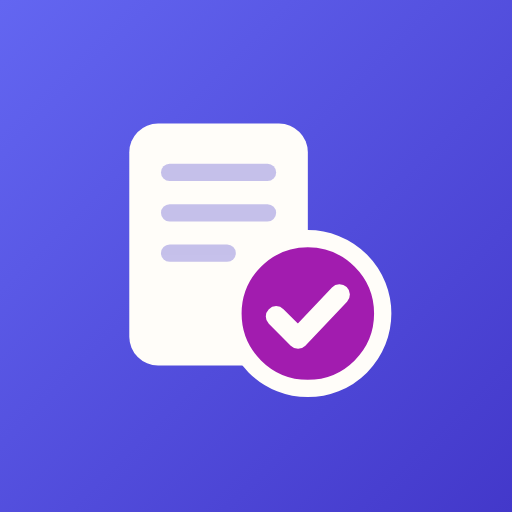
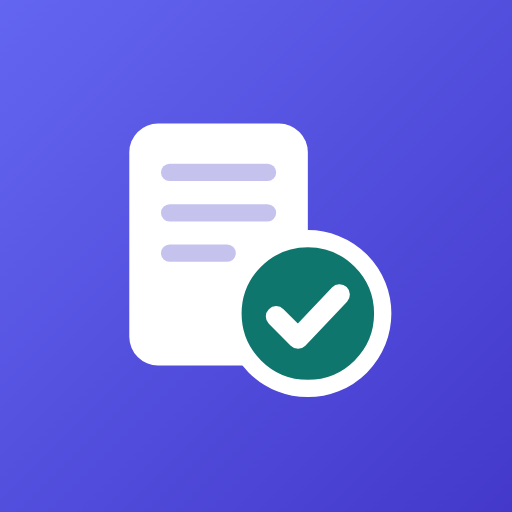
Put the indigo on cool neutrals instead of a warm cream base (#42)
* Opt the viewport into safe-area insets (viewport-fit=cover)

* Keep body content clear of the landscape notch

* Give the tab bar a floor above the home indicator

* Reserve room for the taller tab bar in the layout

* Give the exam toolbar a floor above the home indicator

* Add a regression test for the iOS safe-area insets

* Point the theme-color metas at the cool canvas

* Move the tokens to cool neutrals with a teal second voice

* Re-render the logo, icons and social card in the new palette

* Recolour the maskable icon and social card sources

* Expect the new canvas colours in the theme-color test

* Rename the second-voice contrast case to teal

* Update the design-system rule's token table

* Record the cool-neutral direction in MASTER.md

* Use the new ink in the quality-gates diagram

Changed region(s): [[0.4688, 0.4688, 0.75, 0.75]]

diff --git a/src/styles/index.css b/src/styles/index.css
@@ -8,30 +8,30 @@
 
 @custom-variant dark (&:is(.dark *));
 
-/* "Warm & friendly, grown-up" — design-system/pruefungstrainer-deutsch/MASTER.md. Every pair
+/* "Friendly, grown-up": indigo on cool neutrals — design-system/pruefungstrainer-deutsch/MASTER.md. Every pair
    below was measured; e2e/contrast.spec.js re-measures them in a real browser. */
 :root {
   --radius: 1rem;
 
-  --background: #fbf7f1; /* warm cream */
-  --foreground: #2b2420; /* brown-black ink, 14.3:1 */
-  --card: #fffdf9;
-  --card-foreground: #2b2420;
-  --popover: #fffdf9;
-  --popover-foreground: #2b2420;
+  --background: #f6f7fb; /* cool off-white */
+  --foreground: #1c2033; /* slate-navy ink, 15.1:1 */
+  --card: #ffffff;
+  --card-foreground: #1c2033;
+  --popover: #ffffff;
+  --popover-foreground: #1c2033;
 
   /* Indigo. White on it measures 7.9:1; as text on the canvas 7.4:1. Lightening it
      re-breaks the default button, the most-used control in the app. */
   --primary: #4338ca;
   --primary-foreground: #ffffff;
-  --secondary: #f3ece3;
-  --secondary-foreground: #2b2420;
-  --muted: #f3ece3;
-  --muted-foreground: #6b5e55; /* 5.9:1 on the canvas */
-  --accent: #e9e8fb; /* soft indigo tint: hover, active nav */
+  --secondary: #eceef5;
+  --secondary-foreground: #1c2033;
+  --muted: #eceef5;
+  --muted-foreground: #555d73; /* 6.1:1 on the canvas */
+  --accent: #e8e9fb; /* soft indigo tint: hover, active nav */
   --accent-foreground: #3730a3; /* 8.2:1 on the accent */
-  /* Magenta second voice: charts and secondary emphasis, never status. */
-  --brand-2: #a21caf;
+  /* Teal second voice: charts and secondary emphasis, never status. White on it 5.5:1. */
+  --brand-2: #0f766e;
 
   /* A tint and a solid fill of one colour need opposite inks, so each domain colour carries
      both. `--*-foreground` / `--*-on-fill` sit on the solid fill; `--*-on-tint` and the
@@ -40,8 +40,8 @@
   --destructive-foreground: #ffffff; /* 5.5:1 on the fill */
   --destructive-on-tint: #a62e25;
 
-  --border: #e8ddd0;
-  --input: #98877a; /* field boundary: 3.40:1 on --card (WCAG 1.4.11) */
+  --border: #e1e4ee;
+  --input: #80869c; /* field boundary: 3.6:1 on --card (WCAG 1.4.11) */
   --ring: #4338ca;
 
   /* Domain colours: pass grades, correctness, urgency. */
@@ -51,53 +51,53 @@
   --warning: #e3a21a; /* fill and tint source only — 2:1 as ink */
   --warning-foreground: #7a4e00; /* ink on the tint; ring/meter stroke */
 
-  /* Scrim behind dialogs and sheets: the ink, not black, so it stays warm. */
-  --scrim: rgb(43 36 32 / 0.45);
+  /* Scrim behind dialogs and sheets: the ink, not black, so it stays in the slate family. */
+  --scrim: rgb(28 32 51 / 0.45);
 
-  /* Warm-tinted, soft. Resting card → raised/hover → menus and dialogs. */
-  --shadow-soft: 0 1px 2px rgb(74 46 26 / 0.05), 0 4px 14px -4px rgb(74 46 26 / 0.08);
-  --shadow-lift: 0 2px 4px rgb(74 46 26 / 0.06), 0 14px 28px -8px rgb(74 46 26 / 0.16);
-  --shadow-pop: 0 6px 16px rgb(74 46 26 / 0.1), 0 24px 48px -12px rgb(74 46 26 / 0.24);
+  /* Slate-tinted, soft. Resting card → raised/hover → menus and dialogs. */
+  --shadow-soft: 0 1px 2px rgb(30 35 70 / 0.05), 0 4px 14px -4px rgb(30 35 70 / 0.08);
+  --shadow-lift: 0 2px 4px rgb(30 35 70 / 0.06), 0 14px 28px -8px rgb(30 35 70 / 0.16);
+  --shadow-pop: 0 6px 16px rgb(30 35 70 / 0.1), 0 24px 48px -12px rgb(30 35 70 / 0.24);
 
   /* The brand mark (AppLogo, public/logo.svg). Not overridden in .dark: a logo does not invert. */
   --logo-tile: #4338ca;
   --logo-tile-light: #6366f1;
-  --logo-paper: #fffdf9;
-  --logo-mark: #a21caf;
+  --logo-paper: #ffffff;
+  --logo-mark: #0f766e;
 
   --chart-1: #4338ca;
-  --chart-2: #a21caf;
+  --chart-2: #0f766e;
   --chart-3: #2f7d52;
   --chart-4: #9a6400;
-  --chart-5: #5a6b7d;
+  --chart-5: #64748b;
 }
 
-/* Warm charcoal, never pure black. */
+/* Deep slate, never pure black. */
 .dark {
-  --background: #1b1714;
-  --foreground: #f4ede5;
-  --card: #26211d;
-  --card-foreground: #f4ede5;
-  --popover: #26211d;
-  --popover-foreground: #f4ede5;
+  --background: #12141c;
+  --foreground: #e7e9f2;
+  --card: #1b1e2a;
+  --card-foreground: #e7e9f2;
+  --popover: #1b1e2a;
+  --popover-foreground: #e7e9f2;
 
   --primary: #a5b4fc;
   --primary-foreground: #1e1b4b; /* 8.0:1 — the light fill takes a dark label */
-  --secondary: #332c27;
-  --secondary-foreground: #f4ede5;
-  --muted: #332c27;
-  --muted-foreground: #b9aca1;
-  --accent: #2a2847;
+  --secondary: #262a38;
+  --secondary-foreground: #e7e9f2;
+  --muted: #262a38;
+  --muted-foreground: #a3abc2;
+  --accent: #25274a;
   --accent-foreground: #c7d2fe;
-  --brand-2: #e879f9;
+  --brand-2: #2dd4bf;
 
   /* `--destructive` stays light: it is also the `text-destructive` ink on the canvas. */
   --destructive: #f07468;
   --destructive-foreground: #2a0a07;
   --destructive-on-tint: #ff9a8f;
 
-  --border: rgb(255 240 225 / 0.12);
-  --input: #7a6c62; /* field boundary: 3.15:1 on --card (WCAG 1.4.11) */
+  --border: rgb(200 210 255 / 0.12);
+  --input: #6c7389; /* field boundary: 3.5:1 on --card (WCAG 1.4.11) */
   --ring: #a5b4fc;
 
   --success: #5cc08a;
@@ -106,18 +106,18 @@
   --warning: #f0b93a;
   --warning-foreground: #f5d58a;
 
-  --scrim: rgb(8 6 5 / 0.62);
+  --scrim: rgb(4 6 12 / 0.62);
 
-  /* Shadows barely read on charcoal, so each one carries a warm 1px hairline too. */
-  --shadow-soft: 0 0 0 1px rgb(255 240 225 / 0.07), 0 4px 14px -4px rgb(0 0 0 / 0.4);
-  --shadow-lift: 0 0 0 1px rgb(255 240 225 / 0.1), 0 14px 28px -8px rgb(0 0 0 / 0.55);
-  --shadow-pop: 0 0 0 1px rgb(255 240 225 / 0.1), 0 24px 48px -12px rgb(0 0 0 / 0.65);
+  /* Shadows barely read on charcoal, so each one carries a cool 1px hairline too. */
+  --shadow-soft: 0 0 0 1px rgb(200 210 255 / 0.07), 0 4px 14px -4px rgb(0 0 0 / 0.4);
+  --shadow-lift: 0 0 0 1px rgb(200 210 255 / 0.1), 0 14px 28px -8px rgb(0 0 0 / 0.55);
+  --shadow-pop: 0 0 0 1px rgb(200 210 255 / 0.1), 0 24px 48px -12px rgb(0 0 0 / 0.65);
 
   --chart-1: #a5b4fc;
-  --chart-2: #e879f9;
+  --chart-2: #2dd4bf;
   --chart-3: #5cc08a;
   --chart-4: #f0b93a;
-  --chart-5: #a7b4c4;
+  --chart-5: #94a3b8;
 }
 
 @theme inline {
@@ -275,7 +275,7 @@
     /* viewport-fit=cover lets the page run under a landscape notch; keep content clear of it. */
     padding-left: env(safe-area-inset-left);
     padding-right: env(safe-area-inset-right);
-    /* A barely-there warm wash so large pages do not read as a flat slab. */
+    /* A barely-there indigo-and-teal wash so large pages do not read as a flat slab. */
     background-image:
       radial-gradient(
         60rem 30rem at 15% -10%,

diff --git a/tests/render/themeAndChart.test.ts b/tests/render/themeAndChart.test.ts
@@ -10,7 +10,7 @@ describe('theme-color', () => {
 
   beforeEach(() => {
     style = document.createElement('style');
-    style.textContent = ':root { --background: #fbf7f1; } .dark { --background: #1b1714; }';
+    style.textContent = ':root { --background: #f6f7fb; } .dark { --background: #12141c; }';
     document.head.appendChild(style);
     for (const media of ['(prefers-color-scheme: light)', '(prefers-color-scheme: dark)']) {
       const meta = document.createElement('meta');
@@ -31,21 +31,21 @@ describe('theme-color', () => {
   it('follows the in-app theme, not the OS one, on both metas', () => {
     document.documentElement.classList.add('dark');
     syncThemeColor();
-    expect(metas.map(meta => meta.content)).toEqual(['#1b1714', '#1b1714']);
+    expect(metas.map(meta => meta.content)).toEqual(['#12141c', '#12141c']);
 
     document.documentElement.classList.remove('dark');
     syncThemeColor();
-    expect(metas.map(meta => meta.content)).toEqual(['#fbf7f1', '#fbf7f1']);
+    expect(metas.map(meta => meta.content)).toEqual(['#f6f7fb', '#f6f7fb']);
   });
 
   it('follows the theme toggle in the header', async () => {
     localStorage.clear();
     localStorage.setItem('telcTrainerTheme', 'light');
     const page = await mount('/settings');
-    expect(metas[1]?.content).toBe('#fbf7f1');
+    expect(metas[1]?.content).toBe('#f6f7fb');
     await click(bySelector('button[aria-label="Switch to dark mode"]')[0]);
     expect(document.documentElement.classList.contains('dark')).toBe(true);
-    expect(metas.map(meta => meta.content)).toEqual(['#1b1714', '#1b1714']);
+    expect(metas.map(meta => meta.content)).toEqual(['#12141c', '#12141c']);
     await page.unmount();
   });
 });

diff --git a/index.html b/index.html
@@ -23,8 +23,8 @@
     <link rel="manifest" href="/manifest.webmanifest" />
 
     <!-- Theme -->
-    <meta name="theme-color" content="#fbf7f1" media="(prefers-color-scheme: light)" />
-    <meta name="theme-color" content="#1b1714" media="(prefers-color-scheme: dark)" />
+    <meta name="theme-color" content="#f6f7fb" media="(prefers-color-scheme: light)" />
+    <meta name="theme-color" content="#12141c" media="(prefers-color-scheme: dark)" />
     <meta name="color-scheme" content="light dark" />
     <meta name="apple-mobile-web-app-title" content="Prüfungstrainer" />
 

diff --git a/e2e/contrast.spec.js b/e2e/contrast.spec.js
@@ -172,7 +172,7 @@ const PAIRS = [
     need: 3
   },
   {
-    id: 'magenta second voice (charts) on a card',
+    id: 'teal second voice (charts) on a card',
     surface: 'bg-card',
     html: '<span class="block h-2 w-20 bg-brand-2"></span>',
     prop: 'backgroundColor',

diff --git a/.claude/rules/ui-design-system.md b/.claude/rules/ui-design-system.md
@@ -9,7 +9,7 @@ paths:
 
 # UI and design system
 
-A redesign ("warm & friendly", `design-system/pruefungstrainer-deutsch/MASTER.md`) is in progress;
+A redesign ("friendly, grown-up", `design-system/pruefungstrainer-deutsch/MASTER.md`; indigo on cool neutrals since v4.0.1) is in progress;
 the `ui-designer` agent owns it. Pass 5A landed tokens, fonts, primitives and the app shell.
 Verify appearance in a real browser (Playwright MCP), never from a passing unit test.
 
@@ -20,30 +20,30 @@ expressed as shadcn variables so every primitive inherits them. Domain colours c
 on-tint and an on-fill ink (`--destructive-on-tint`, `--success-on-fill`) — a tint and a solid
 fill of one colour need opposite inks.
 
-| Token                           | Light                                | Dark                       | Role                                                     |
-| ------------------------------- | ------------------------------------ | -------------------------- | -------------------------------------------------------- |
-| `--background`                  | `#fbf7f1`                            | `#1b1714`                  | canvas (warm cream / warm charcoal)                      |
-| `--foreground`                  | `#2b2420`                            | `#f4ede5`                  | ink                                                      |
-| `--card` / `--popover`          | `#fffdf9`                            | `#26211d`                  | cards, menus                                             |
-| `--muted` / `--secondary`       | `#f3ece3`                            | `#332c27`                  | quiet surfaces, tracks                                   |
-| `--muted-foreground`            | `#6b5e55`                            | `#b9aca1`                  | secondary text; checkbox/radio edge                      |
-| `--primary` / `--ring`          | `#4338ca`                            | `#a5b4fc`                  | indigo: actions, links, focus                            |
-| `--primary-foreground`          | `#ffffff`                            | `#1e1b4b`                  | label on primary                                         |
-| `--accent` / `-foreground`      | `#e9e8fb` / `#3730a3`                | `#2a2847` / `#c7d2fe`      | soft tint: hover, active nav, secondary button           |
-| `--brand-2`                     | `#a21caf`                            | `#e879f9`                  | magenta second voice (charts), never status              |
-| `--success` / `-on-fill`        | `#2f7d52` / `#ffffff`                | `#5cc08a` / `#0d2618`      | fill and its label                                       |
-| `--success-foreground`          | `#1e6440`                            | `#9be0b8`                  | ink on the success tint                                  |
-| `--warning` / `-foreground`     | `#e3a21a` / `#7a4e00`                | `#f0b93a` / `#f5d58a`      | tint source / ink, ring and meter stroke                 |
-| `--destructive` / `-foreground` | `#c0362c` / `#ffffff`                | `#f07468` / `#2a0a07`      | fill and its label                                       |
-| `--destructive-on-tint`         | `#a62e25`                            | `#ff9a8f`                  | ink on the destructive tint                              |
-| `--border` / `--input`          | `#e8ddd0` / `#98877a`                | 12% warm white / `#7a6c62` | hairlines / field boundary (input ≥ 3:1 on card, 1.4.11) |
-| `--scrim`                       | ink at 45%                           | near-black at 62%          | behind dialogs (`bg-scrim`)                              |
-| `--chart-1..5`                  | indigo, magenta, green, ochre, slate | lighter set                | charts, both themes                                      |
-| `--logo-*`                      | fixed, no dark override              | —                          | the brand mark only                                      |
+| Token                           | Light                             | Dark                       | Role                                                     |
+| ------------------------------- | --------------------------------- | -------------------------- | -------------------------------------------------------- |
+| `--background`                  | `#f6f7fb`                         | `#12141c`                  | canvas (cool off-white / deep slate)                     |
+| `--foreground`                  | `#1c2033`                         | `#e7e9f2`                  | ink                                                      |
+| `--card` / `--popover`          | `#ffffff`                         | `#1b1e2a`                  | cards, menus                                             |
+| `--muted` / `--secondary`       | `#eceef5`                         | `#262a38`                  | quiet surfaces, tracks                                   |
+| `--muted-foreground`            | `#555d73`                         | `#a3abc2`                  | secondary text; checkbox/radio edge                      |
+| `--primary` / `--ring`          | `#4338ca`                         | `#a5b4fc`                  | indigo: actions, links, focus                            |
+| `--primary-foreground`          | `#ffffff`                         | `#1e1b4b`                  | label on primary                                         |
+| `--accent` / `-foreground`      | `#e8e9fb` / `#3730a3`             | `#25274a` / `#c7d2fe`      | soft tint: hover, active nav, secondary button           |
+| `--brand-2`                     | `#0f766e`                         | `#2dd4bf`                  | teal second voice (charts), never status                 |
+| `--success` / `-on-fill`        | `#2f7d52` / `#ffffff`             | `#5cc08a` / `#0d2618`      | fill and its label                                       |
+| `--success-foreground`          | `#1e6440`                         | `#9be0b8`                  | ink on the success tint                                  |
+| `--warning` / `-foreground`     | `#e3a21a` / `#7a4e00`             | `#f0b93a` / `#f5d58a`      | tint source / ink, ring and meter stroke                 |
+| `--destructive` / `-foreground` | `#c0362c` / `#ffffff`             | `#f07468` / `#2a0a07`      | fill and its label                                       |
+| `--destructive-on-tint`         | `#a62e25`                         | `#ff9a8f`                  | ink on the destructive tint                              |
+| `--border` / `--input`          | `#e1e4ee` / `#80869c`             | 12% cool white / `#6c7389` | hairlines / field boundary (input ≥ 3:1 on card, 1.4.11) |
+| `--scrim`                       | ink at 45%                        | near-black at 62%          | behind dialogs (`bg-scrim`)                              |
+| `--chart-1..5`                  | indigo, teal, green, ochre, slate | lighter set                | charts, both themes                                      |
+| `--logo-*`                      | fixed, no dark override           | —                          | the brand mark only                                      |
 
-- **Shadows** (warm-tinted; utilities `shadow-soft` resting card, `shadow-lift` hover/raised,
-  `shadow-pop` menus/dialogs). In dark each carries a 1px warm hairline, because shadows do
-  not read on charcoal — that is why `Card` has no dark border class (a border colour would
+- **Shadows** (slate-tinted; utilities `shadow-soft` resting card, `shadow-lift` hover/raised,
+  `shadow-pop` menus/dialogs). In dark each carries a 1px cool hairline, because shadows do
+  not read on deep slate — that is why `Card` has no dark border class (a border colour would
   override a caller's `border-l-primary`).
 - **Radius** (`--radius: 1rem`): `sm` 6px · `md` 8px · `lg` 10px · `xl` 12px (controls: buttons,
   inputs, selects) · `2xl` 16px (cards, dialogs) · `3xl` 24px · pills `rounded-full`.

diff --git a/design-system/pruefungstrainer-deutsch/MASTER.md b/design-system/pruefungstrainer-deutsch/MASTER.md
@@ -12,12 +12,12 @@ then corrected by hand: the skill's default for "education" is a children's clay
 with Comic Neue, which is wrong for adult learners — including immigrants preparing for the
 DTZ — who need calm, legible, encouraging, never childish.
 
-## Direction: warm & friendly, grown-up
+## Direction: friendly, grown-up — indigo on cool neutrals
 
-- Warm cream canvas, white-warm cards, ink that is brown-black rather than blue-black.
-- One brand colour (indigo) for action and focus; magenta as the quiet second voice for
+- Cool off-white canvas, white cards, slate-navy ink: neutrals from the same blue family as the indigo, so nothing fights it (the earlier cream/brown base did).
+- One brand colour (indigo) for action and focus; teal as the quiet second voice for
   charts and secondary emphasis. Green/amber/red carry status only.
-- Generous rounding (cards 16px, controls 12px, pills full), soft warm-tinted shadows, no hard
+- Generous rounding (cards 16px, controls 12px, pills full), soft slate-tinted shadows, no hard
   1px grey boxes everywhere — separate with space and surface tone first, borders second.
 - Friendly type: rounded humanist sans. Large, calm headings; comfortable 16px body at 1.6.
 - Motion is subtle (150–250ms, ease-out), explains state changes, and disappears under
@@ -47,45 +47,45 @@ strokes ≥ 3:1. `e2e/contrast.spec.js` re-measures them in a real browser.
 
 ### Light
 
-| Token                   | Value     | Use                                       |
-| ----------------------- | --------- | ----------------------------------------- |
-| `--background`          | `#FBF7F1` | canvas (warm cream)                       |
-| `--foreground`          | `#2B2420` | ink — 14.3:1                              |
-| `--card`                | `#FFFDF9` | cards, popovers                           |
-| `--muted`/`--secondary` | `#F3ECE3` | quiet surfaces, tracks                    |
-| `--muted-foreground`    | `#6B5E55` | secondary text — 5.9:1 on bg              |
-| `--primary`             | `#4338CA` | indigo: actions, focus, links — 7.4:1     |
-| `--primary-foreground`  | `#FFFFFF` | on primary — 7.9:1                        |
-| `--accent`              | `#E9E8FB` | soft indigo tint (hover, active nav)      |
-| `--accent-foreground`   | `#3730A3` | on accent — 8.2:1                         |
-| `--brand-2`             | `#A21CAF` | magenta second voice (charts, highlights) |
-| `--success`             | `#2F7D52` | fill; white label 5.0:1                   |
-| `--success-foreground`  | `#1E6440` | ink on success tint                       |
-| `--warning`             | `#E3A21A` | fill/tint source                          |
-| `--warning-foreground`  | `#7A4E00` | ink on warning tint, ring/meter stroke    |
-| `--destructive`         | `#C0362C` | fill; white label 5.5:1                   |
-| `--destructive-on-tint` | `#A62E25` | ink on destructive tint                   |
-| `--border`              | `#E8DDD0` |                                           |
-| `--input`               | `#98877A` | field boundary — 3.4:1 on card (1.4.11)   |
-| `--ring`                | `#4338CA` |                                           |
+| Token                   | Value     | Use                                     |
+| ----------------------- | --------- | --------------------------------------- |
+| `--background`          | `#F6F7FB` | canvas (cool off-white)                 |
+| `--foreground`          | `#1C2033` | ink — 15.1:1                            |
+| `--card`                | `#FFFFFF` | cards, popovers                         |
+| `--muted`/`--secondary` | `#ECEEF5` | quiet surfaces, tracks                  |
+| `--muted-foreground`    | `#555D73` | secondary text — 6.1:1 on bg            |
+| `--primary`             | `#4338CA` | indigo: actions, focus, links — 7.4:1   |
+| `--primary-foreground`  | `#FFFFFF` | on primary — 7.9:1                      |
+| `--accent`              | `#E9E8FB` | soft indigo tint (hover, active nav)    |
+| `--accent-foreground`   | `#3730A3` | on accent — 8.2:1                       |
+| `--brand-2`             | `#0F766E` | teal second voice (charts, highlights)  |
+| `--success`             | `#2F7D52` | fill; white label 5.0:1                 |
+| `--success-foreground`  | `#1E6440` | ink on success tint                     |
+| `--warning`             | `#E3A21A` | fill/tint source                        |
+| `--warning-foreground`  | `#7A4E00` | ink on warning tint, ring/meter stroke  |
+| `--destructive`         | `#C0362C` | fill; white label 5.5:1                 |
+| `--destructive-on-tint` | `#A62E25` | ink on destructive tint                 |
+| `--border`              | `#E1E4EE` |                                         |
+| `--input`               | `#80869C` | field boundary — 3.6:1 on card (1.4.11) |
+| `--ring`                | `#4338CA` |                                         |
 
-### Dark (warm charcoal, never pure black)
+### Dark (deep slate, never pure black)
 
 | Token                   | Value                                                |
 | ----------------------- | ---------------------------------------------------- |
-| `--background`          | `#1B1714`                                            |
-| `--foreground`          | `#F4EDE5`                                            |
-| `--card`                | `#26211D`                                            |
-| `--muted`/`--secondary` | `#332C27`                                            |
-| `--muted-foreground`    | `#B9ACA1`                                            |
+| `--background`          | `#12141C`                                            |
+| `--foreground`          | `#E7E9F2`                                            |
+| `--card`                | `#1B1E2A`                                            |
+| `--muted`/`--secondary` | `#262A38`                                            |
+| `--muted-foreground`    | `#A3ABC2`                                            |
 | `--primary`             | `#A5B4FC` (ink `#1E1B4B`, 8.0:1)                     |
-| `--accent`              | `#2A2847` (ink `#C7D2FE`)                            |
-| `--brand-2`             | `#E879F9`                                            |
+| `--accent`              | `#25274A` (ink `#C7D2FE`)                            |
+| `--brand-2`             | `#2DD4BF`                                            |
 | `--success`             | `#5CC08A` (ink on fill `#0D2618`; on tint `#9BE0B8`) |
 | `--warning`             | `#F0B93A` (ink on tint `#F5D58A`)                    |
 | `--destructive`         | `#F07468` (ink on fill `#2A0A07`; on tint `#FF9A8F`) |
-| `--border`              | `rgb(255 240 225 / 0.12)`                            |
-| `--input`               | `#7A6C62` (field boundary, 3.15:1 on card)           |
+| `--border`              | `rgb(200 210 255 / 0.12)`                            |
+| `--input`               | `#6C7389` (field boundary, 3.5:1 on card)            |
 
 Charts get their own `--chart-1..5` in **both** themes (the old palette forgot dark).
 
@@ -93,7 +93,7 @@ Charts get their own `--chart-1..5` in **both** themes (the old palette forgot d
 
 - `--radius: 1rem` (cards, `rounded-2xl`). Controls `rounded-xl` = `--radius-xl` (0.75rem);
   chips/pills full.
-- Shadows are warm-tinted and soft, as tokens: `--shadow-soft` (resting card),
+- Shadows are slate-tinted and soft, as tokens: `--shadow-soft` (resting card),
   `--shadow-lift` (hover/raised), `--shadow-pop` (menus, dialogs). No default grey shadows.
 - Spacing: 4px base; cards `p-5 sm:p-6`; page gutter 16px mobile / 24px desktop; sections
   separated by 32–40px.

diff --git a/docs/architecture/quality-gates.md b/docs/architecture/quality-gates.md
@@ -35,7 +35,7 @@ flowchart TD
   merge --> tag{"package.json version changed?"}
   tag -- yes --> release["tag-release.yml: tag, attach built site,<br/>GitHub release"]
 
-  classDef boundary fill:#e9e8fb,stroke:#4338ca,stroke-width:2px,color:#2b2420
+  classDef boundary fill:#e9e8fb,stroke:#4338ca,stroke-width:2px,color:#1c2033
   class protect boundary
 ```
 
